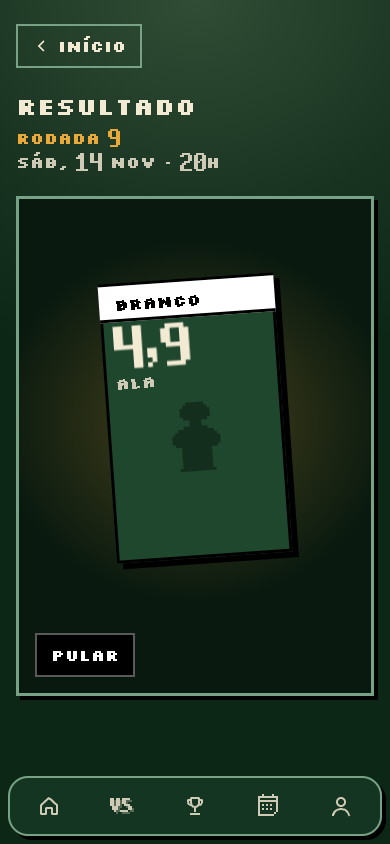
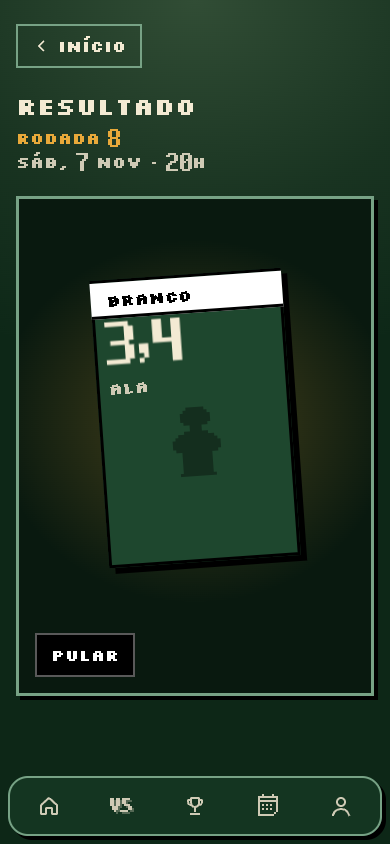
feat(web): álbum do pacote do Craque, Compartilhar sem ícone e card do início sem pacote quando ninguém votou

diff --git a/apps/web/src/features/voting/result-alert.tsx b/apps/web/src/features/voting/result-alert.tsx
@@ -3,9 +3,12 @@ import { Link } from 'react-router';
 import { PixelText } from '../../components/ui/pixel-text';
 import { RouteButton } from '../rounds/route-button';
 import { PackMini } from './pack-mini';
+import { hasPack } from '../pack/deck';
+import { useResult } from './queries';
 import { hasOpenedResult } from './result-opened';
 
 type ResultAlertProps = {
+  groupId: string;
   roundId: string;
   number: number;
   /** Quem vê: o "já abri" é por jogador. */
@@ -18,10 +21,17 @@ type ResultAlertProps = {
  * em miniatura treme de leve em degraus (parado com "reduzir movimento"). Depois de aberto (por rodada e por
  * jogador), vira a linha do resultado, que leva ao mesmo lugar.
  */
-export function ResultAlert({ roundId, number, membershipId }: ResultAlertProps) {
-  const to = `/rodadas/${roundId}/resultado`;
+export function ResultAlert({ groupId, roundId, number, membershipId }: ResultAlertProps) {
   if (hasOpenedResult(roundId, membershipId))
     return <ResultLine roundId={roundId} number={number} />;
+  return <ResultNews groupId={groupId} roundId={roundId} number={number} />;
+}
+
+/** O card em destaque. Rodada sem votos não tem pacote: a tecla diz "Ver resultado" e o pacote some. */
+function ResultNews({ groupId, roundId, number }: Omit<ResultAlertProps, 'membershipId'>) {
+  const to = `/rodadas/${roundId}/resultado`;
+  const result = useResult(groupId, roundId);
+  const pack = result.data ? hasPack(result.data) : true;
   return (
     <section
       aria-label="O resultado saiu"
@@ -29,9 +39,11 @@ export function ResultAlert({ roundId, number, membershipId }: ResultAlertProps)
       style={{ borderColor: 'var(--color-gold)', boxShadow: '5px 5px 0 var(--color-shadow)' }}
     >
       <div className="flex items-center gap-3 bg-gold/12 px-4 py-4 shadow-[inset_0_-3px_0_0_var(--color-gold)]">
-        <span className="animate-pack-wobble inline-flex">
-          <PackMini scale={5} />
-        </span>
+        {pack && (
+          <span className="animate-pack-wobble inline-flex">
+            <PackMini scale={5} />
+          </span>
+        )}
         <div className="flex min-w-0 flex-1 flex-col gap-2">
           <PixelText className="text-gold">{`Rodada ${number}`}</PixelText>
           <PixelText
@@ -53,7 +65,7 @@ export function ResultAlert({ roundId, number, membershipId }: ResultAlertProps)
         </p>
         <RouteButton
           to={to}
-          label="Abrir pacote"
+          label={pack ? 'Abrir pacote' : 'Ver resultado'}
           icon="pack"
           block
           className="animate-row-in [--moment-delay:220ms]"

diff --git a/apps/web/src/features/pack/share-card.ts b/apps/web/src/features/pack/share-card.ts
@@ -9,9 +9,9 @@ import { TIER_COLORS, TIER_LABELS } from './tier';
 export const SHARE_WIDTH = 1080;
 export const SHARE_HEIGHT = 1350;
 
-/** A carta em unidades de CSS (176 x 280), ampliada 4x no canvas. */
-const CARD_W = 176;
-const CARD_H = 280;
+/** A carta em unidades de CSS (192 x 288), ampliada 4x no canvas. */
+const CARD_W = 192;
+const CARD_H = 288;
 
 const STAR_PATH = 'M12 2l3 6.9 7.5.7-5.7 5 1.7 7.4L12 18l-6.5 4 1.7-7.4-5.7-5 7.5-.7z';
 
@@ -65,10 +65,10 @@ export async function renderCardPng(card: PackCard, roundNumber: number): Promis
   ctx.fillStyle = glow;
   ctx.fillRect(0, 0, SHARE_WIDTH, SHARE_HEIGHT);
 
-  // A carta, centrada e ampliada 4x (um pouco maior: 5x ocuparia 880 x 1400)
-  const scale = 4.4;
+  // A carta, centrada e ampliada 4x (inteiro: o pixel art não pode ficar fracionado)
+  const scale = 4;
   const ox = Math.round((SHARE_WIDTH - CARD_W * scale) / 2);
-  const oy = 70;
+  const oy = 74;
   ctx.save();
   ctx.translate(ox, oy);
   ctx.scale(scale, scale);
@@ -76,7 +76,7 @@ export async function renderCardPng(card: PackCard, roundNumber: number): Promis
   ctx.restore();
 
   // Rodapé
-  text(ctx, 'Fut Stats', SHARE_WIDTH / 2, 1290, {
+  text(ctx, 'Fut Stats', SHARE_WIDTH / 2, 1268, {
     size: 40,
     color: resolveColor('var(--color-text)'),
     align: 'center',
@@ -141,7 +141,7 @@ function drawCard(ctx: CanvasRenderingContext2D, card: PackCard, roundNumber: nu
   const map = bodyLargeMap(player.avatar);
   const palette = bodyLargePalette(player.avatar, white ? 'white' : 'black');
   const bx = Math.round((CARD_W - 16 * 3) / 2);
-  const by = 114;
+  const by = 118;
   map.forEach((line, y) =>
     [...line].forEach((c, x) => {
       const color = palette[c];
@@ -160,7 +160,7 @@ function drawCard(ctx: CanvasRenderingContext2D, card: PackCard, roundNumber: nu
         ? `#${card.rank} na rodada`
         : ''
       : `Rodada ${roundNumber}`;
-  text(ctx, player.nickname, 12, 200, { color: tier.ink, maxWidth: CARD_W - 24 });
-  text(ctx, kind, 12, 222, { color: '#3a2a10', maxWidth: CARD_W - 24 });
-  text(ctx, note, 12, 244, { color: '#3a2a10', maxWidth: CARD_W - 24 });
+  text(ctx, player.nickname, 12, 208, { color: tier.ink, maxWidth: CARD_W - 24 });
+  text(ctx, kind, 12, 230, { color: tier.ink2, maxWidth: CARD_W - 24 });
+  text(ctx, note, 12, 252, { color: tier.ink2, maxWidth: CARD_W - 24 });
 }

diff --git a/apps/web/src/features/pack/pack-opening.tsx b/apps/web/src/features/pack/pack-opening.tsx
@@ -144,7 +144,7 @@ function Stage({ frame, number, onOpen }: { frame: Frame; number: number; onOpen
       return (
         <div
           aria-hidden
-          className="animate-final-in flex flex-col items-center gap-4 min-[360px]:flex-row"
+          className="animate-final-in flex flex-wrap items-center justify-center gap-4"
         >
           {frame.cards.map((c) => (
             <CraqueCard
@@ -154,7 +154,6 @@ function Stage({ frame, number, onOpen }: { frame: Frame; number: number; onOpen
               roundNumber={number}
               special={c.you}
               hidden
-             
             />
           ))}
         </div>
@@ -420,13 +419,7 @@ function FinalCard({ card, number, delay }: { card: PackCard; number: number; de
       className="animate-final-in flex w-48 max-w-full flex-col items-center gap-4"
     >
       {card.kind === 'craque' ? (
-        <CraqueCard
-          player={card.player}
-          tier={card.tier}
-          roundNumber={number}
-          special={card.you}
-         
-        />
+        <CraqueCard player={card.player} tier={card.tier} roundNumber={number} special={card.you} />
       ) : card.kind === 'flop' ? (
         <FlopPackCard player={card.player} tier={card.tier} you={card.you} />
       ) : (

diff --git a/apps/web/src/index.css b/apps/web/src/index.css
@@ -567,19 +567,40 @@
 }
 
 .card-frame[data-tier='gold'] {
-  --card-bg: linear-gradient(135deg, #f6d77a 0%, #e8a93a 30%, #fbe7a8 55%, #d4f0e6 78%, #e8a93a 100%);
+  --card-bg: linear-gradient(
+    135deg,
+    #f6d77a 0%,
+    #e8a93a 30%,
+    #fbe7a8 55%,
+    #d4f0e6 78%,
+    #e8a93a 100%
+  );
   --card-ink: #111111;
   --card-ink-2: #3a2a10;
 }
 
 .card-frame[data-tier='silver'] {
-  --card-bg: linear-gradient(135deg, #f4f7fa 0%, #a9b4bf 30%, #e6ecf1 55%, #c3d3e3 78%, #93a0ad 100%);
+  --card-bg: linear-gradient(
+    135deg,
+    #f4f7fa 0%,
+    #a9b4bf 30%,
+    #e6ecf1 55%,
+    #c3d3e3 78%,
+    #93a0ad 100%
+  );
   --card-ink: #111111;
   --card-ink-2: #28303a;
 }
 
 .card-frame[data-tier='bronze'] {
-  --card-bg: linear-gradient(135deg, #efbf93 0%, #b8703f 30%, #e8b283 55%, #d3a27b 78%, #9a5a2e 100%);
+  --card-bg: linear-gradient(
+    135deg,
+    #efbf93 0%,
+    #b8703f 30%,
+    #e8b283 55%,
+    #d3a27b 78%,
+    #9a5a2e 100%
+  );
   --card-ink: #130a03;
   --card-ink-2: #2d1a0c;
 }

diff --git a/apps/web/src/features/pack/tier.ts b/apps/web/src/features/pack/tier.ts
@@ -9,9 +9,9 @@ export const TIER_LABELS: Readonly<Record<CardTier, string>> = {
 
 /** Cores do canvas do Compartilhar (a mesma família dos gradientes de `index.css`). */
 export const TIER_COLORS: Readonly<
-  Record<CardTier, { from: string; mid: string; to: string; ink: string }>
+  Record<CardTier, { from: string; mid: string; to: string; ink: string; ink2: string }>
 > = {
-  gold: { from: '#f6d77a', mid: '#e8a93a', to: '#fbe7a8', ink: '#111111' },
-  silver: { from: '#f4f7fa', mid: '#a9b4bf', to: '#e6ecf1', ink: '#111111' },
-  bronze: { from: '#efbf93', mid: '#b8703f', to: '#e8b283', ink: '#130a03' },
+  gold: { from: '#f6d77a', mid: '#e8a93a', to: '#fbe7a8', ink: '#111111', ink2: '#3a2a10' },
+  silver: { from: '#f4f7fa', mid: '#a9b4bf', to: '#e6ecf1', ink: '#111111', ink2: '#28303a' },
+  bronze: { from: '#efbf93', mid: '#b8703f', to: '#e8b283', ink: '#130a03', ink2: '#2d1a0c' },
 };

diff --git a/apps/web/src/features/voting/player-card.tsx b/apps/web/src/features/voting/player-card.tsx
@@ -96,7 +96,7 @@ export function PlayerCard({
   const shown = clues ? clues.rating : score;
   const white = player.team === 'WHITE';
   const ring = special
-    ? '#000 0 0 0 3px inset, #f3ead3 0 0 0 6px inset, #000 0 0 0 9px inset, 6px 6px 0 0 #000'
+    ? '#000 0 0 0 3px inset, #f3ead3 0 0 0 6px inset, 6px 6px 0 0 #000'
     : '#000 0 0 0 3px inset, 6px 6px 0 0 #000';
   return (
     <article
@@ -189,6 +189,12 @@ export function PlayerCard({
         >
           <path d={CRACK_PATH} fill="#130a03" />
         </svg>
+      )}
+      {special && (
+        <span
+          aria-hidden
+          className="pointer-events-none absolute inset-[6px] border-[3px] border-team-black"
+        />
       )}
       {children}
     </article>

diff --git a/apps/web/src/pages/rounds/home.tsx b/apps/web/src/pages/rounds/home.tsx
@@ -59,6 +59,7 @@ function Home({
       {/* Acima da próxima rodada: o resultado em destaque e a votação aberta (só um deles com a tecla amarela) */}
       {lastResult && (
         <ResultAlert
+          groupId={groupId}
           roundId={lastResult.roundId}
           number={lastResult.number}
           membershipId={membershipId}

diff --git a/apps/web/src/features/pack/share-button.tsx b/apps/web/src/features/pack/share-button.tsx
@@ -44,7 +44,6 @@ export function ShareButton({ card, roundNumber, block, className }: ShareButton
     <div className={className}>
       <Button
         label={label}
-        icon="share"
         variant="outline"
         size={48}
         block={block}
